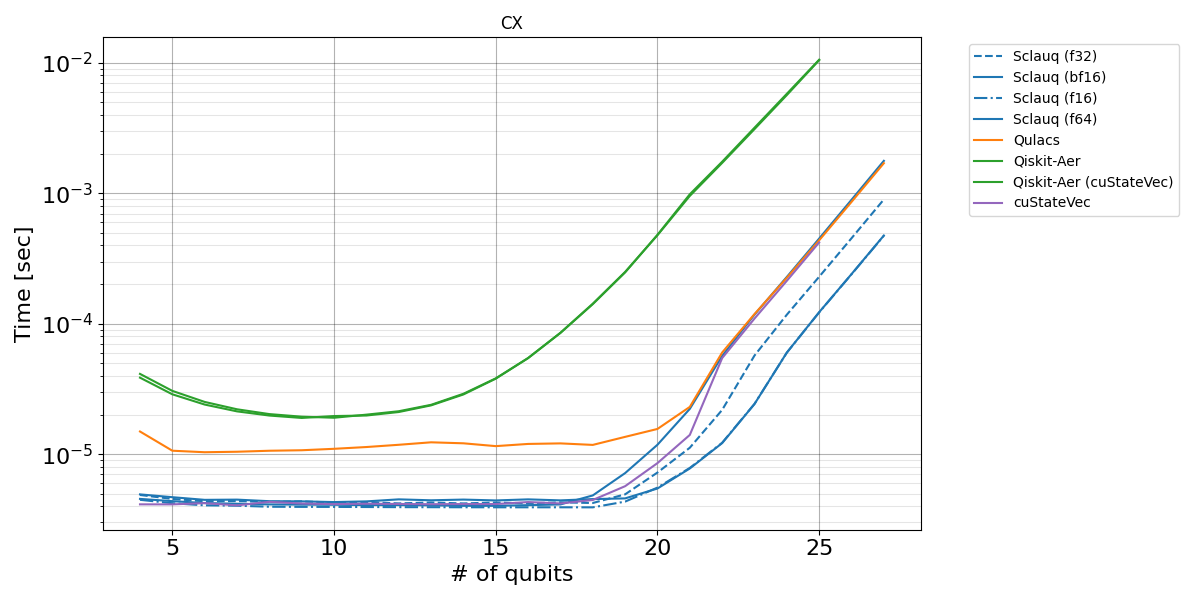
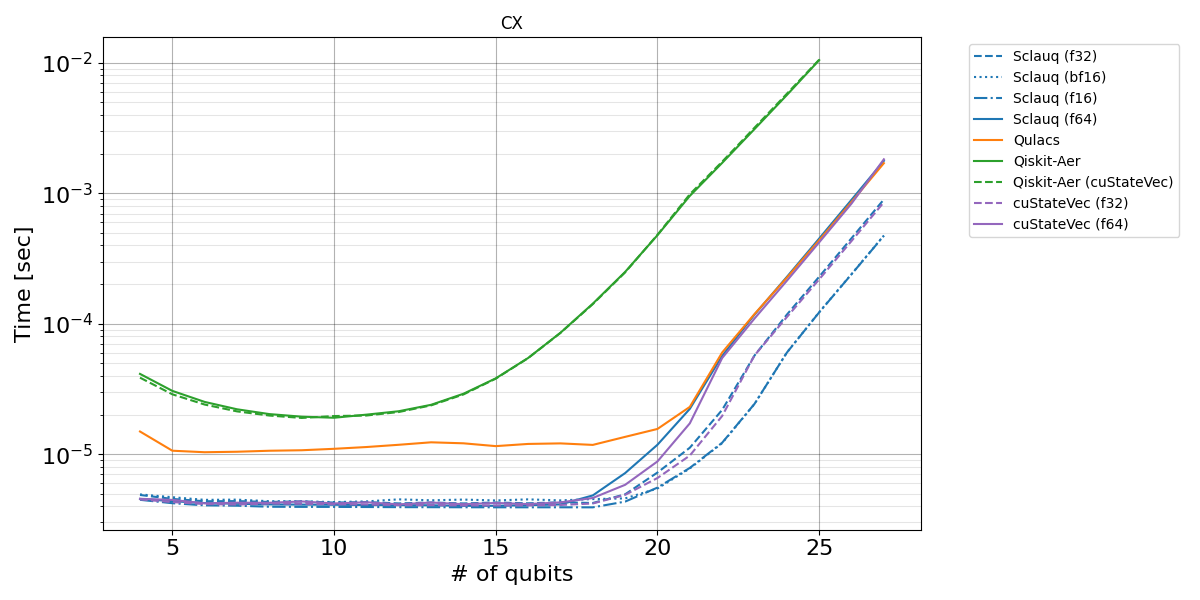
custatevec sync

Changed region(s): [[0.1233, 0.66, 0.5858, 0.87], [0.8017, 0.33, 0.9558, 0.39], [0.5858, 0.63, 0.6167, 0.66]]

diff --git a/benchmark/single-gate/gpu/plot.py b/benchmark/single-gate/gpu/plot.py
@@ -15,7 +15,7 @@ def load():
         flist = glob.glob(path)
         for filepath in flist:
             libname = libnames[libidx]
-            if lib == "scaluq":
+            if lib == "scaluq" or lib == 'custatevec':
                 prec = os.path.basename(filepath)[:-5]
                 filepaths.append((f'{libname} ({prec})', filepath))
             else:
@@ -52,7 +52,9 @@ def plot(dat, group):
             if name.count('(f16)'):
                 linestyle = 'dashdot'
             if name.count('(bf16)'):
-                linestyle = 'solid'
+                linestyle = 'dotted'
+            if name.count('(cuStateVec)'):
+                linestyle = 'dashed'
         else:
             cid = libnames.index(name)
         plt.plot(xs, ys, label=name, c=cmap(cid), linestyle=linestyle)